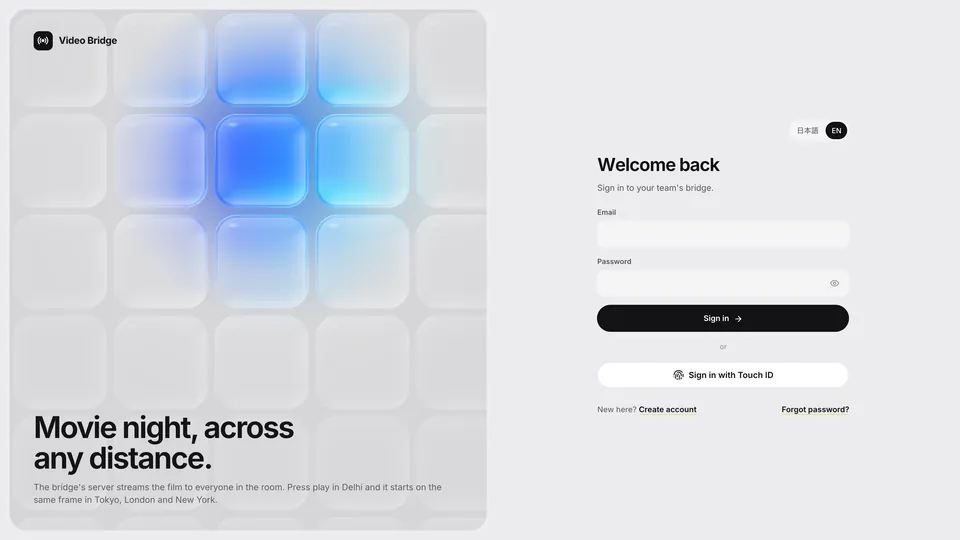
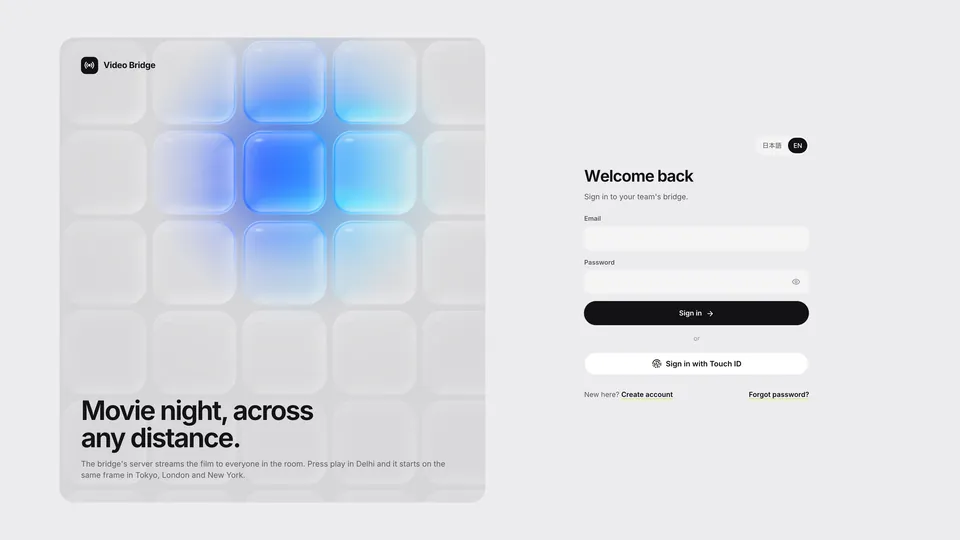
Video Bridge card: full login image and wrapping action buttons
The cards' parallax scales images to 1.12, which cut the headline, so
the login screenshot now sits inset on its own grey. The action row
may wrap, because the private-repo label pushed View details out of
the card.

diff --git a/src/styles/global.css b/src/styles/global.css
@@ -1449,6 +1449,8 @@ small.red {
 .project-actions {
   display: flex;
   flex: 0 0 auto;
+  flex-wrap: wrap;
+  max-width: 100%;
   gap: 7px;
   white-space: nowrap;
 }

diff --git a/agent/state.md b/agent/state.md
@@ -8,7 +8,7 @@ The workspace contains a Vite React portfolio deployed to Vercel, populated with
 
 ## Recent changes
 
-- 2026-10-13 (Video Bridge, third round): the owner asked to remove the film credit everywhere. CC BY 3.0 needs one credit, so it now appears once, as a small line under the Video Bridge gallery (`galleryNote`, `.pd-gallery-note`); the captions and the Apple (v5) film end cards no longer carry it (v5 re-rendered, web copies replaced). The product-native (v6) films are being re-rendered without the end-card credit and will be swapped in separately. The Video Bridge card is now the public login page (glowing tiles, "Movie night, across any distance."), shot from bridge.mohamedfuad.com/login without signing in, EN and JA (15.5 and 16.3 KB). On phones (max-width 640px) the gallery caption gets its own line above the dots, because it was squeezed into a narrow column.
+- 2026-10-13 (Video Bridge, third round): the owner asked to remove the film credit everywhere. CC BY 3.0 needs one credit, so it now appears once, as a small line under the Video Bridge gallery (`galleryNote`, `.pd-gallery-note`); the captions and the Apple (v5) film end cards no longer carry it (v5 re-rendered, web copies replaced). The product-native (v6) films are being re-rendered without the end-card credit and will be swapped in separately. The Video Bridge card is now the public login page (glowing tiles, "Movie night, across any distance."), shot from bridge.mohamedfuad.com/login without signing in, EN and JA (15.5 and 16.3 KB). On phones (max-width 640px) the gallery caption gets its own line above the dots, because it was squeezed into a narrow column. Later the same day (uncommitted): the card's login screenshot sits at 89% on its own edge grey (#ECECEE), because the cards' scroll parallax scales every card image to 1.12 and cut the "M" of the headline; and `.project-actions` may wrap, because Video Bridge's "Private repo" label pushed "View details" past the card column (37 px in JA at 1280 px). Other cards still fit on one row.
 - 2026-10-13 (Video Bridge, second round, ADR-071 amendment, uncommitted): the owner asked for a product-native film, better screen transitions, a real movie inside the player instead of their own films, and a demonstration of screen share and watching in sync. The local library now holds only Big Buck Bunny (Blender Foundation, CC BY 3.0, 1080p60), downloaded from download.blender.org with the owner's approval. All Video Bridge footage and screenshots were reshot with it on a local test instance (viewers Mohamed, Aisha, Ken). Gallery images 1 to 6 are regenerated, and new gallery image 7 shows a shared screen with a drawn circle. Captions that show the film carry the CC BY credit, and the hover clip is regenerated. The gallery now opens with the product-native (v6) film `public/media/launch/videobridge-v6-{en,ja}.mp4` with posters, followed by the Apple (v5) film rebuilt with Big Buck Bunny, `videobridge-v5-{en,ja}.mp4`. Both films are 1920x1080, 60 fps, 50.4 s, ADR-069 encode, and both end cards carry the credit line. Film workspaces are `~/Documents/launch-videos/videobridge/v6`, `v6-ja`, `v5` and `v5-ja`. Perf: `pnpm perf:audit` x5 against a HEAD (601403b) build as control: Lighthouse mobile 98 vs 98, desktop 100 vs 100, CLS 0.001 both, media at load 0 both; transfer at load 447.7 vs 431 KB desktop (+16.7 KB, the new first card) and 420.1 vs 419 KB mobile. Results: scratchpad perf/2026-10-12T23-45-24-929Z.json (control) and 2026-10-12T23-49-37-687Z.json. One candidate build failed with a missing `.ssr/entry-server.mjs` because the lead ran a second build at the same moment; both later builds passed.
 - 2026-10-13 (Video Bridge added as the first project, ADR-071, uncommitted): slug `videobridge`, at the top of `projects` in `src/App.jsx`. Card images `public/media/projects/videobridge-{en,ja}-card.webp` (960x540), gallery `public/media/gallery/videobridge-1..6.jpg` (1600x900), hover clip `public/media/video/videobridge.mp4` (1280x720, 30 fps, 10 s, 297 KB), launch film `public/media/launch/videobridge-v5-{en,ja}.mp4` (1920x1080, 60 fps, 50.4 s, 5.6 MB and 5.5 MB, ADR-069 recipe) with WebP posters. Live link `https://bridge.mohamedfuad.com/`. There is no GitHub link because the repo is private, so the card shows "Private repo". Screenshots and footage come from a local isolated instance with local test accounts (host Mohamed, viewers Aisha and Ken) and a library of the owner's own launch films (WebDrop, TokaiHub, Tutor-System). Nothing comes from the live server, and the drive's local path is masked. The film is the first Apple-theme (v5) film on the site, in EN and JA cuts, built in `~/Documents/launch-videos/videobridge/v5` and `v5-ja`. Copy claims trace to the VideoBridge repo: `usePlaybackSync.ts` (250 ms check, 40 ms deadband, 5% speed change, 1 s jump), `room.go` (start time = slowest one-way latency clamped to 20 to 600 ms, plus 80 ms), the README (up to 4K per viewer), and LiveKit for voice and screen share. The /explain toolkit card no longer calls Video Bridge upcoming. `public/llms.txt`, `README.md`, `agent/data.md` and the `public/sitemap.xml` lastmod (2026-10-13) are updated. Perf: `pnpm perf:audit` against a HEAD (601403b) build as control, Lighthouse x5: mobile 96 to 97, desktop 100 to 100, LCP 2,258 to 2,255 ms mobile, CLS 0.001 both, media at load 0 both. Lighthouse byte weight at load +31.4 KB desktop and +16.3 KB mobile, almost all the new first card `videobridge-en-card.webp` (28.8 KB, in the first viewport). Scroll and open frames P50/P90 16.7 ms. Results: scratchpad perf/2026-10-12T16-02-15-735Z.json (control) and 2026-10-12T16-04-46-258Z.json.
 - 2026-10-06 (Folio example slots removed, perf audit, uncommitted): the three empty Folio example slots are gone (`examples` removed from the item). The /explain loop now attaches its src and poster only within 400 px of the viewport (a video poster is fetched at once, which put 32.9 KB of media on the initial load) and preloads from then. `pnpm perf:audit` against a HEAD (77aeb13) build as the control, interleaved: Lighthouse x5 mobile 97 vs 97, desktop 100 vs 100, LCP 2,254 vs 2,182 ms (both within 2,177 to 2,257), FCP 1,355 both, TBT 159 vs 158 ms (the machine was slower in this pair; the earlier x3 pair read 48 vs 47), CLS 0.001 both; transfer at load 430.9 vs 427.8 KB desktop (script +1.8 KB), media 0 vs 0; scroll frames P50/P90 16.7 ms on both, no scroll long tasks. After scroll +848 KB desktop, the toolkit films and loops. Accessibility 87 and best practices 96 are unchanged from the control. Results: scratchpad perf/2026-10-06T08-56-50-797Z.json (control) and 2026-10-06T08-59-19-037Z.json, frames from 2026-10-06T08-53-16-562Z.json.
